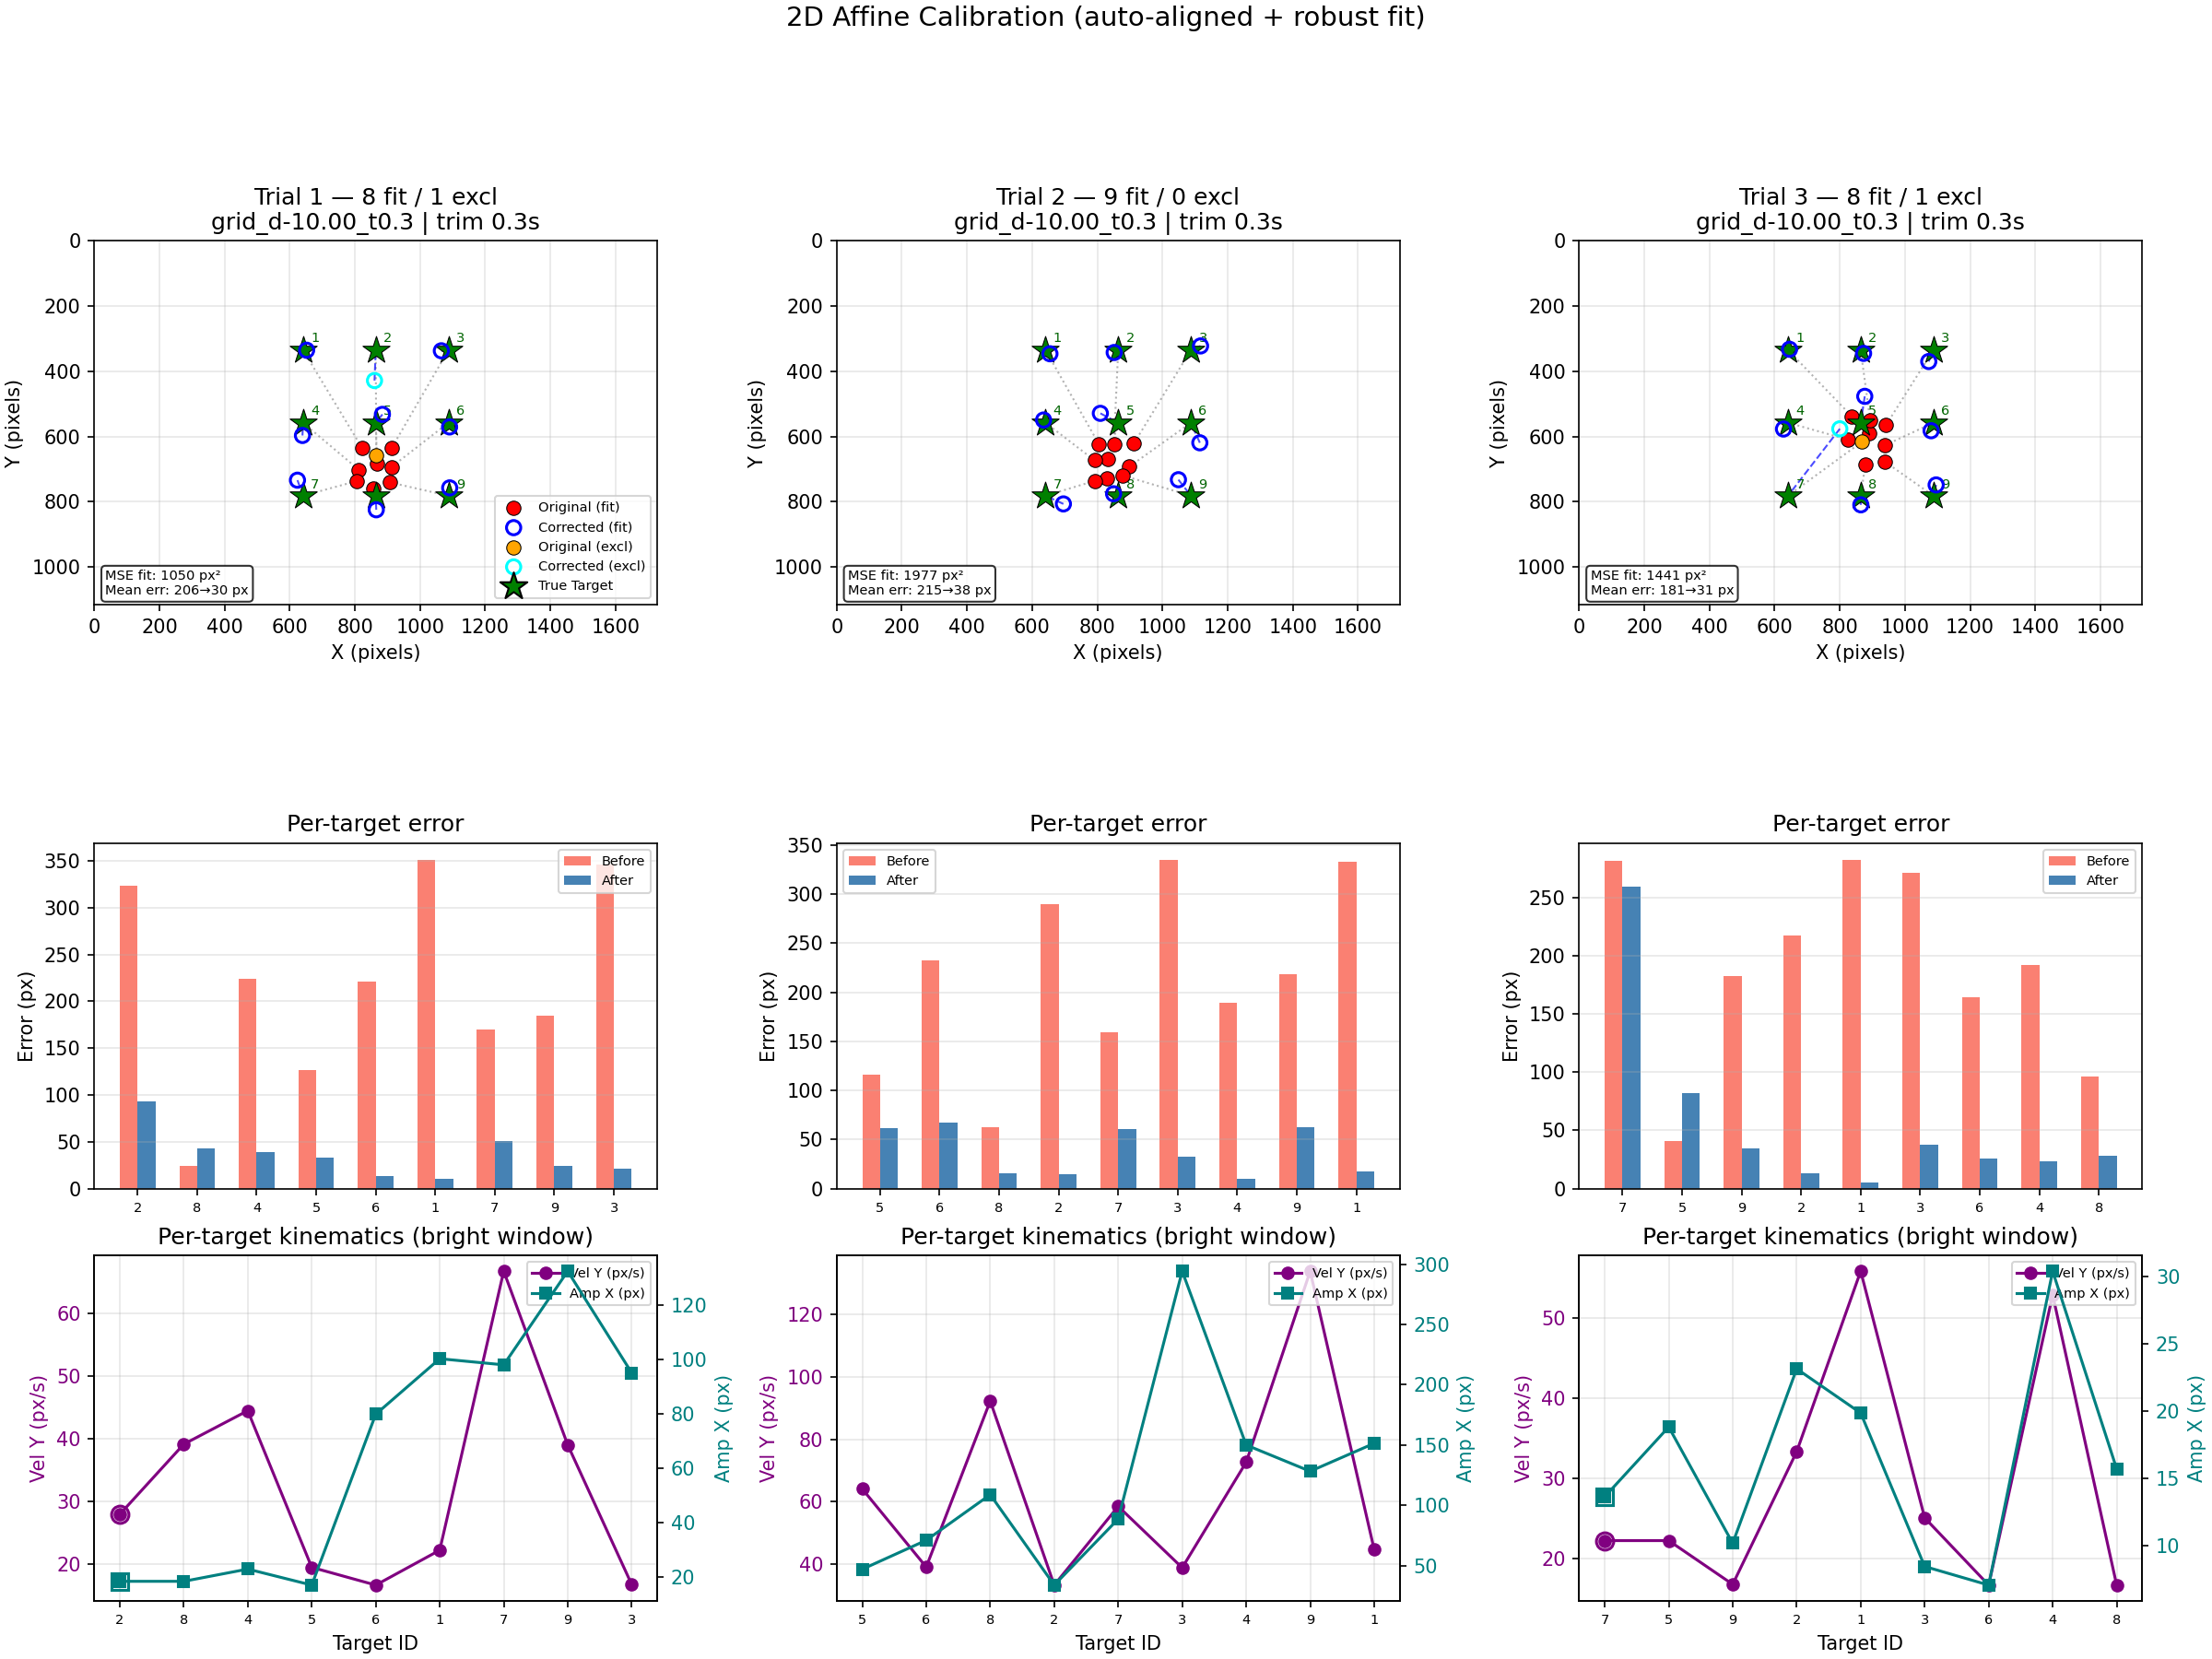
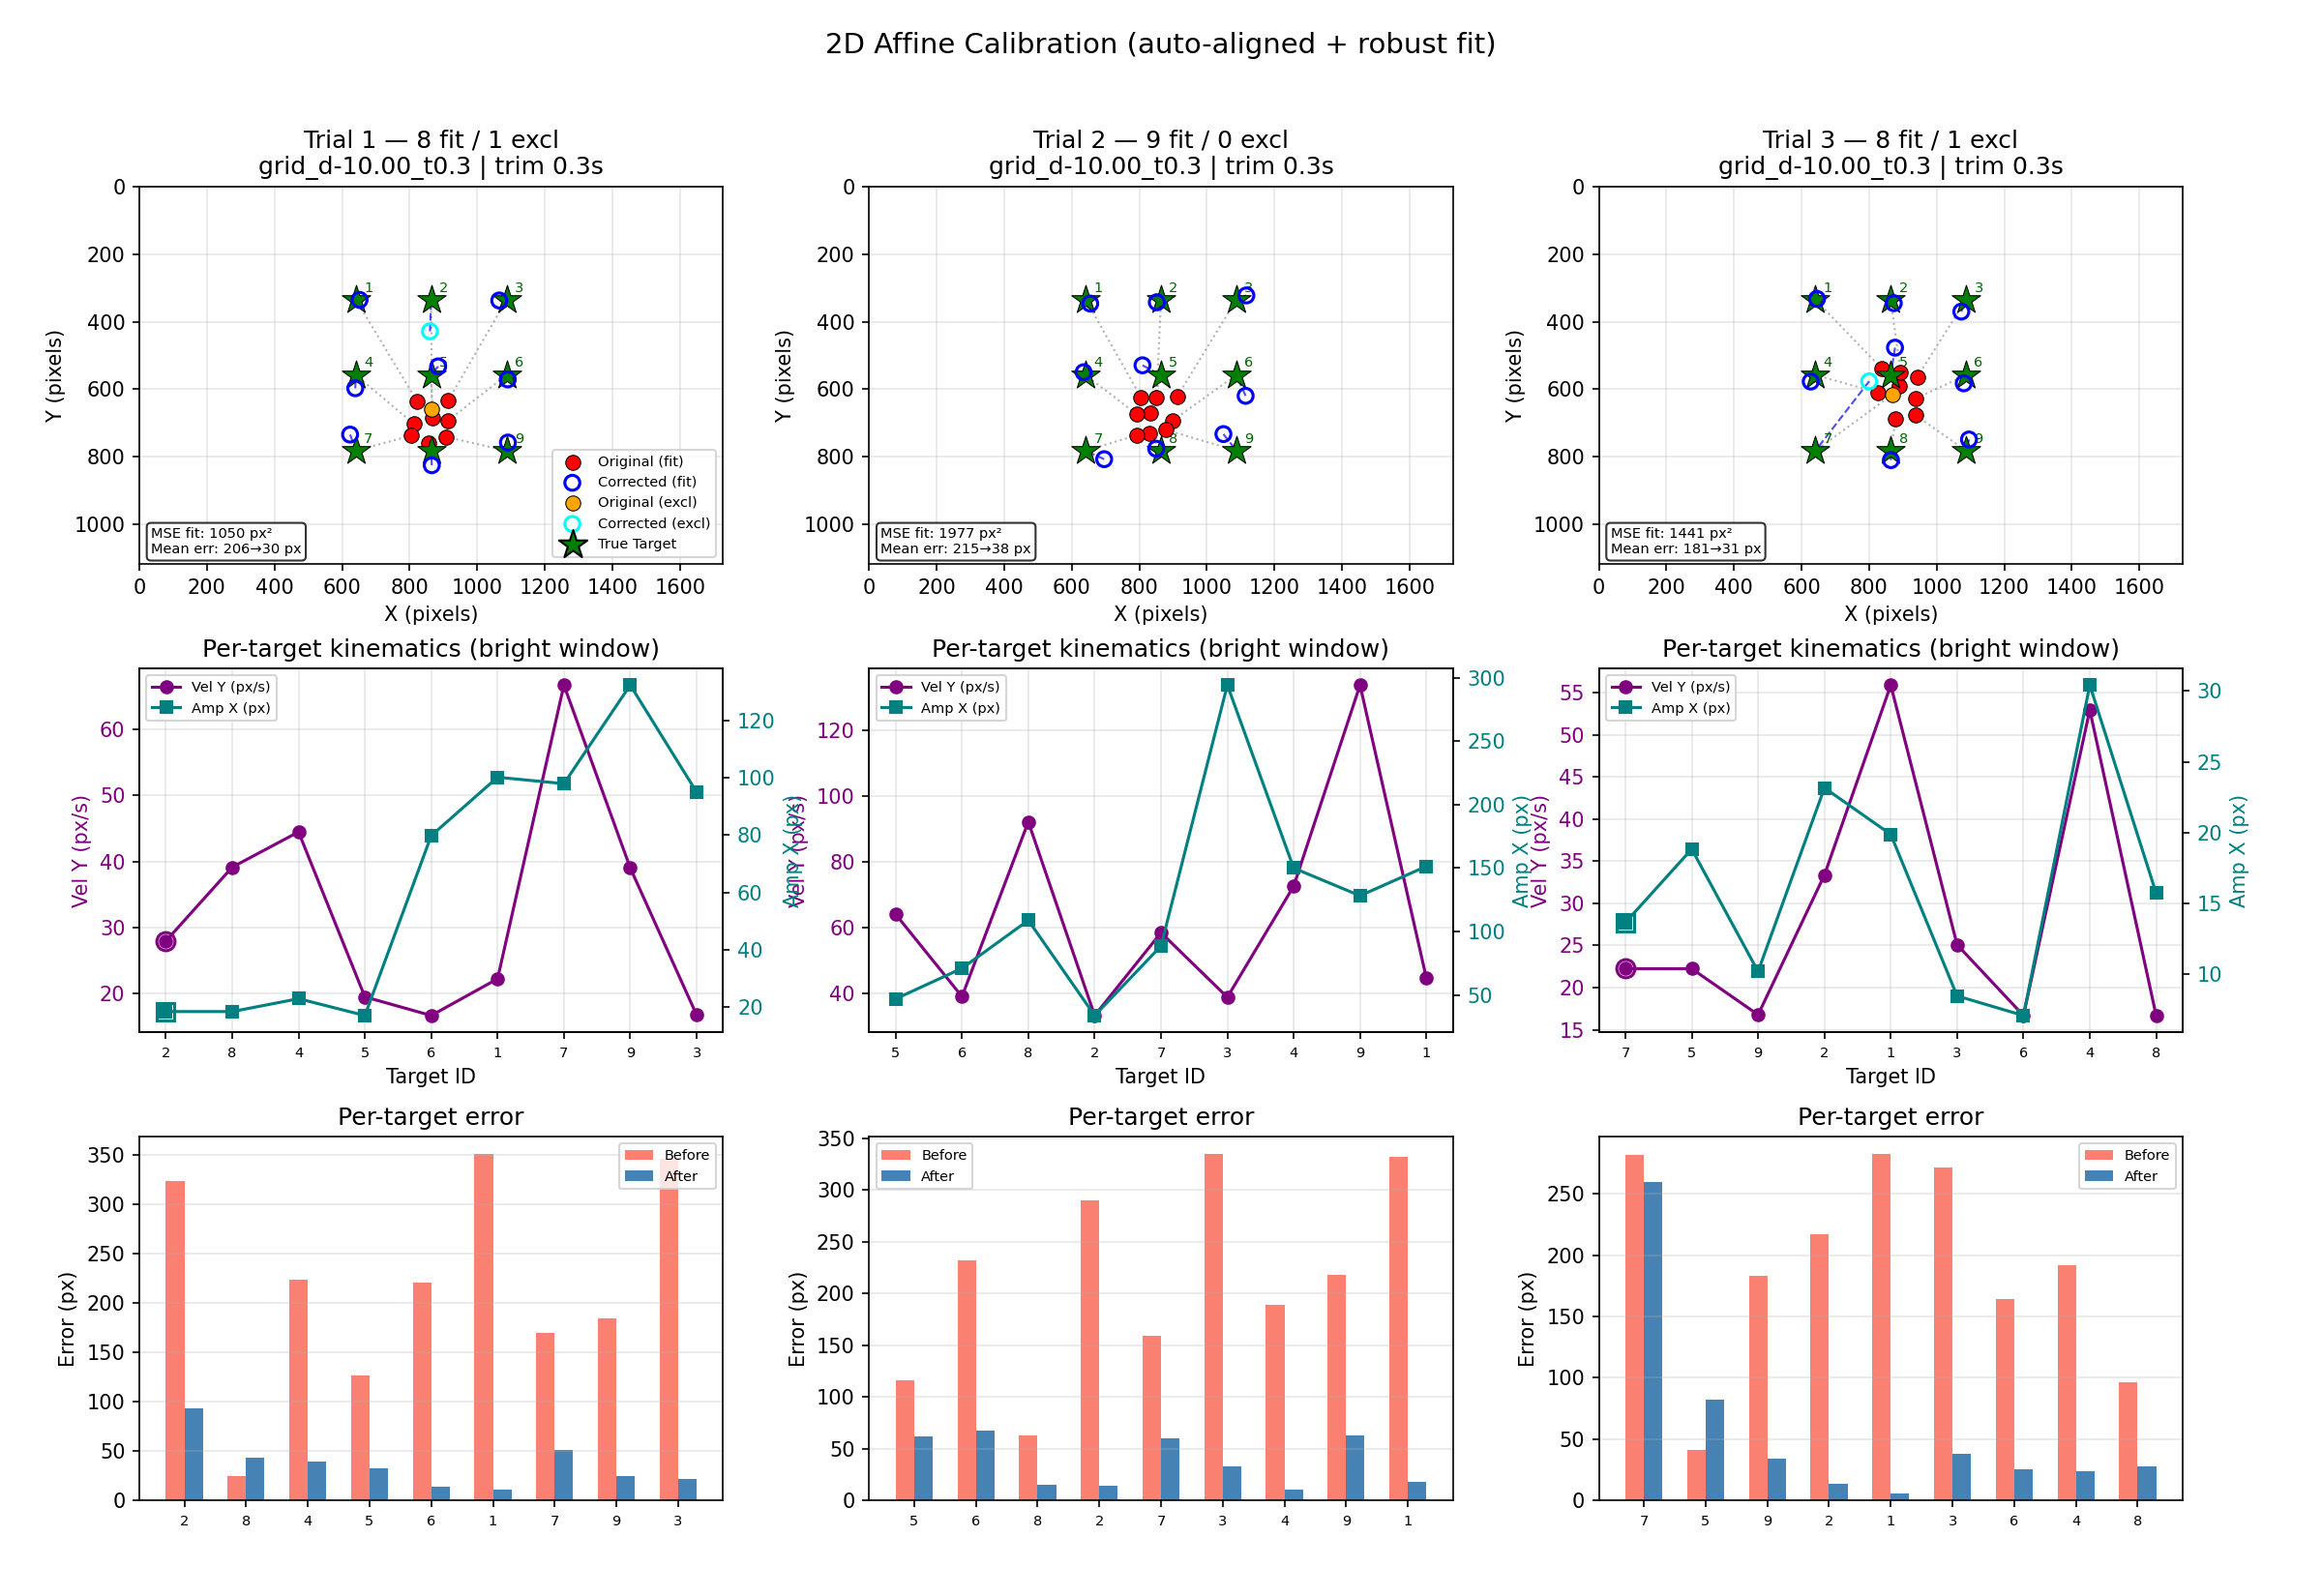
added changes to the graphs & Naming folder

diff --git a/Backend/calibration_engine.py b/Backend/calibration_engine.py
@@ -5,8 +5,6 @@ from pathlib import Path
 import matplotlib.pyplot as plt
 import numpy as np
 import pandas as pd
-import time
-import json
 
 BACKEND_DIR = Path(__file__).resolve().parent
 GAZE_DIR = BACKEND_DIR / "data" / "input"
@@ -19,7 +17,7 @@ PREFERRED_FIT_POINTS = 6
 MIN_GAZE_SAMPLES = 50
 MAX_GAZE_STD = 0.05
 
-#Grid search: shift epoch offset relative to dim_min anchor (seconds)
+# Grid search: shift epoch offset relative to dim_min anchor (seconds)
 OFFSET_SEARCH_MIN_S = -10.0
 OFFSET_SEARCH_MAX_S = 2.0
 OFFSET_SEARCH_STEP_S = 0.25
@@ -30,12 +28,12 @@ PROTECT_BEFORE_PX = 100.0
 PROTECT_MAX_AFTER_PX = 150.0
 SACCADE_TRIM_S = 0.2
 
-# Implement paths/constants, file loading, and a minimal runnable entrypoint. 
 
 def load_trial_data(trial_id: int) -> tuple[pd.DataFrame, pd.DataFrame]:
     gaze_path = GAZE_DIR / f"gazedata{trial_id}.csv"
     targets_path = TARGETS_DIR / f"calibration_targets{trial_id}.csv"
     return pd.read_csv(gaze_path), pd.read_csv(targets_path)
+
 
 # Implement the clock bridge between Unix epoch timestamps from the frontend and session-relative Tobii timestamps from the gaze CSV.
 
@@ -283,6 +281,7 @@ def optimize_session_alignment(
     return best_offset, best_trim, best_label, best_err
 
 
+
 def process_trial(trial_id: int) -> dict:
     gaze_df, targets_df = load_trial_data(trial_id)
     if targets_df.empty or len(targets_df) < MIN_AFFINE_POINTS:
@@ -316,7 +315,6 @@ def process_trial(trial_id: int) -> dict:
         "true_xy": true_xy,
     }
 
-    # Start with the simplest observed→true affine transform before adding any outlier handling. This is the core milestone.
 
 def fit_affine_2d(obs_xy: np.ndarray, true_xy: np.ndarray) -> np.ndarray:
     if len(obs_xy) < MIN_AFFINE_POINTS:
@@ -486,7 +484,29 @@ def apply_step2(trial_result: dict) -> dict:
         "is_translation_only": is_translation_only(affine_matrix),
     }
 
-# These helps are useful early because they let you run the current stage of the pipeline trial-by-trial and inspect intermediate output. 
+
+def apply_global_correction(
+    gaze_df: pd.DataFrame,
+    affine_matrix: np.ndarray,
+    screen_width: int,
+    screen_height: int,
+) -> pd.DataFrame:
+    corrected_df = gaze_df.copy()
+    obs_x, obs_y = gaze2d_to_pixels(
+        corrected_df["gaze2d_x"].to_numpy(),
+        corrected_df["gaze2d_y"].to_numpy(),
+        screen_width,
+        screen_height,
+)
+    corrected_xy = apply_affine_to_points(np.column_stack([obs_x, obs_y]), affine_matrix)
+    corrected_df["Corrected_Gaze_X"] = corrected_xy[:, 0]
+    corrected_df["Corrected_Gaze_Y"] = corrected_xy[:, 1]
+    return add_kinematics_columns(
+        corrected_df, screen_width, screen_height, use_corrected=True
+    )
+
+
+
 def run_step1() -> list[dict]:
     results: list[dict] = []
     for trial_id in range(1, NUM_TRIALS + 1):
@@ -501,6 +521,7 @@ def run_step1() -> list[dict]:
         )
     print(f"  Extracted {trial_result['n_calibration_points']} calibration point(s)")
     return results
+
 
 def run_step2(step1_results: list[dict]) -> list[dict]:
     print("\n" + "=" * 60)
@@ -545,26 +566,6 @@ def run_step2(step1_results: list[dict]) -> list[dict]:
             )
     return step2_results
 
-# Once the matrix is trustworthy, transform every gaze sample and write the corrected CSV for downstream analysis.  
-def apply_global_correction(
-    gaze_df: pd.DataFrame,
-    affine_matrix: np.ndarray,
-    screen_width: int,
-    screen_height: int,
-) -> pd.DataFrame:
-    corrected_df = gaze_df.copy()
-    obs_x, obs_y = gaze2d_to_pixels(
-        corrected_df["gaze2d_x"].to_numpy(),
-        corrected_df["gaze2d_y"].to_numpy(),
-        screen_width,
-        screen_height,
-)
-    corrected_xy = apply_affine_to_points(np.column_stack([obs_x, obs_y]), affine_matrix)
-    corrected_df["Corrected_Gaze_X"] = corrected_xy[:, 0]
-    corrected_df["Corrected_Gaze_Y"] = corrected_xy[:, 1]
-    return add_kinematics_columns(
-        corrected_df, screen_width, screen_height, use_corrected=True
-    )
 
 def export_corrected_gaze(corrected_df: pd.DataFrame, trial_id: int) -> Path:
     OUTPUT_DIR.mkdir(parents=True, exist_ok=True)
@@ -572,20 +573,19 @@ def export_corrected_gaze(corrected_df: pd.DataFrame, trial_id: int) -> Path:
     corrected_df.to_csv(output_path, index=False)
     return output_path
 
-# Add plots only after the numeric pipeline is working, so the figure becomes a validation tool rather than a debugging distraction.
 
 def plot_affine_calibration_summary(step2_results: list[dict]) -> Path:
     fig, axes = plt.subplots(
-        3, NUM_TRIALS, figsize=(16, 12), constrained_layout=True,
-        gridspec_kw={"height_ratios": [2.2, 1, 1]},
+        3, NUM_TRIALS, figsize=(16, 11),
+        gridspec_kw={"height_ratios": [1.2, 1, 1], "hspace": 0.27, "wspace": 0.25},
     )
     if NUM_TRIALS == 1:
         axes = axes.reshape(3, 1)
 
     for col, result in enumerate(step2_results):
         ax = axes[0, col]
-        ax_err = axes[1, col]
-        ax_kin = axes[2, col]
+        ax_kin = axes[1, col]
+        ax_err = axes[2, col]
         points = result["corrected_points"]
         screen_w, screen_h = result["screen_width"], result["screen_height"]
         fit_pts = [p for p in points if p["used_for_fit"]]
@@ -631,7 +631,9 @@ def plot_affine_calibration_summary(step2_results: list[dict]) -> Path:
             transform=ax.transAxes, fontsize=7, va="bottom",
             bbox=dict(boxstyle="round", facecolor="white", alpha=0.8),
         )
-        ax.set_aspect("equal", adjustable="box")
+        # Anchor south so equal-aspect axes sit at the bottom of the cell
+        # (avoids a large empty gap above the amplitude row).
+        ax.set_aspect("equal", adjustable="box", anchor="S")
         ax.grid(True, alpha=0.3)
 
         ids = [p["target_id"] for p in points]
@@ -674,10 +676,11 @@ def plot_affine_calibration_summary(step2_results: list[dict]) -> Path:
                 ax_amp.plot(i, p["amplitude_x"], "s", mfc="none", mec="teal", markersize=9, markeredgewidth=1.5)
 
         ax_kin.set_title("Per-target kinematics (bright window)")
-        ax_kin.legend(handles=[vel_line, amp_line], loc="upper right", fontsize=7)
+        ax_kin.legend(handles=[vel_line, amp_line], loc="upper left", fontsize=7)
 
     axes[0, 0].legend(loc="lower right", fontsize=7)
     fig.suptitle("2D Affine Calibration (auto-aligned + robust fit)", fontsize=14)
+    fig.subplots_adjust(top=0.92, bottom=0.06, left=0.06, right=0.94, hspace=0.28, wspace=0.28)
 
     OUTPUT_DIR.mkdir(parents=True, exist_ok=True)
     plot_path = OUTPUT_DIR / "drift_correction_summary.png"
@@ -685,7 +688,7 @@ def plot_affine_calibration_summary(step2_results: list[dict]) -> Path:
     plt.close(fig)
     return plot_path
 
-# This is the last piece to polish once extraction, fitting, export, and plots all work end-to-end for the number of trial you care about.
+
 def run_step3(step2_results: list[dict]) -> list[Path]:
     print("\n" + "=" * 60)
     print("STEP 3: Global Correction, Batch Export & Visualization")
@@ -706,55 +709,8 @@ def run_step3(step2_results: list[dict]) -> list[Path]:
     print(f"\nCalibration visualization saved → {plot_path.name}")
     return exported_paths
 
-# #region agent log
-_DEBUG_LOG_PATH = Path(__file__).resolve().parent.parent / ".cursor" / "debug-568686.log"
-
-def _agent_log(hypothesis_id: str, location: str, message: str, data: dict | None = None) -> None:
-    payload = {
-        "sessionId": "568686",
-        "runId": "post-fix",
-        "hypothesisId": hypothesis_id,
-        "location": location,
-        "message": message,
-        "data": data or {},
-        "timestamp": int(time.time() * 1000),
-    }
-    _DEBUG_LOG_PATH.parent.mkdir(parents=True, exist_ok=True)
-    with _DEBUG_LOG_PATH.open("a", encoding="utf-8") as f:
-        f.write(json.dumps(payload) + "\n")
-# #endregion
 
 if __name__ == "__main__":
-    # #region agent log
-    _agent_log("A", "calibration_engine.py:main", "module parsed and entered __main__", {
-        "has_np": "np" in globals(),
-        "has_pd": "pd" in globals(),
-        "has_plt": "plt" in globals(),
-        "run_step3_name": run_step3.__name__,
-    })
-    # #endregion
-    try:
-        step1_results = run_step1()
-        # #region agent log
-        _agent_log("C", "calibration_engine.py:main", "run_step1 completed", {
-            "n_trials": len(step1_results),
-        })
-        # #endregion
-        step2_results = run_step2(step1_results)
-        # #region agent log
-        _agent_log("C", "calibration_engine.py:main", "run_step2 completed", {
-            "n_trials": len(step2_results),
-        })
-        # #endregion
-        run_step3(step2_results)
-        # #region agent log
-        _agent_log("D", "calibration_engine.py:main", "run_step3 completed successfully", {})
-        # #endregion
-    except Exception as exc:
-        # #region agent log
-        _agent_log("E", "calibration_engine.py:main", "runtime failure", {
-            "error_type": type(exc).__name__,
-            "error": str(exc),
-        })
-        # #endregion
-        raise
+    step1_results = run_step1()
+    step2_results = run_step2(step1_results)
+    run_step3(step2_results)

diff --git a/Backend/README.md b/Backend/README.md
@@ -218,15 +218,7 @@ Y-axis is inverted (`ylim` top→bottom) to match screen coordinates (origin top
 
 **What “good” looks like:** blue rings sit near green stars; red dots are systematically off (drift), not randomly scattered.
 
-### Middle row — Per-target error bars
-
-- Salmon = error before correction (px)  
-- Steel blue = error after correction (px)  
-- X-axis = target IDs (order = processing order, not 1…9 sorted)
-
-**What “good” looks like:** blue bars much shorter than salmon for almost every target. A remaining tall blue bar on an excluded target is expected (that point was not trusted for the fit).
-
-### Bottom row — Kinematics during the bright window
+### Middle row — Kinematics during the bright window
 
 | Series | Axis | Meaning |
 |--------|------|---------|
@@ -234,6 +226,14 @@ Y-axis is inverted (`ylim` top→bottom) to match screen coordinates (origin top
 | Teal □ Amp X | Right | Peak-to-peak horizontal travel in the window (px) |
 
 High velocity or amplitude can flag unstable fixations (`unstable` quality flag). Hollow markers on excluded points highlight kinematics for outliers.
+
+### Bottom row — Per-target error bars
+
+- Salmon = error before correction (px)  
+- Steel blue = error after correction (px)  
+- X-axis = target IDs (order = processing order, not 1…9 sorted)
+
+**What “good” looks like:** blue bars much shorter than salmon for almost every target. A remaining tall blue bar on an excluded target is expected (that point was not trusted for the fit).
 
 ---
 
@@ -283,6 +283,6 @@ High velocity or amplitude can flag unstable fixations (`unstable` quality flag)
 
 ## Quick talking points for demos
 
-- **PNG:** “Top: did correction land on true targets? Middle: by how many pixels? Bottom: was the eye stable while we measured?”  
+- **PNG:** “Top: did correction land on true targets? Middle: was the eye stable (amplitude/velocity)? Bottom: by how many pixels did error drop?”  
 - **CSV:** “Same timeline as raw gaze, plus screen-pixel corrected X/Y you can use for analysis.”  
 - **Logic:** “Align clocks → median per target → affine map → apply to whole trial.”